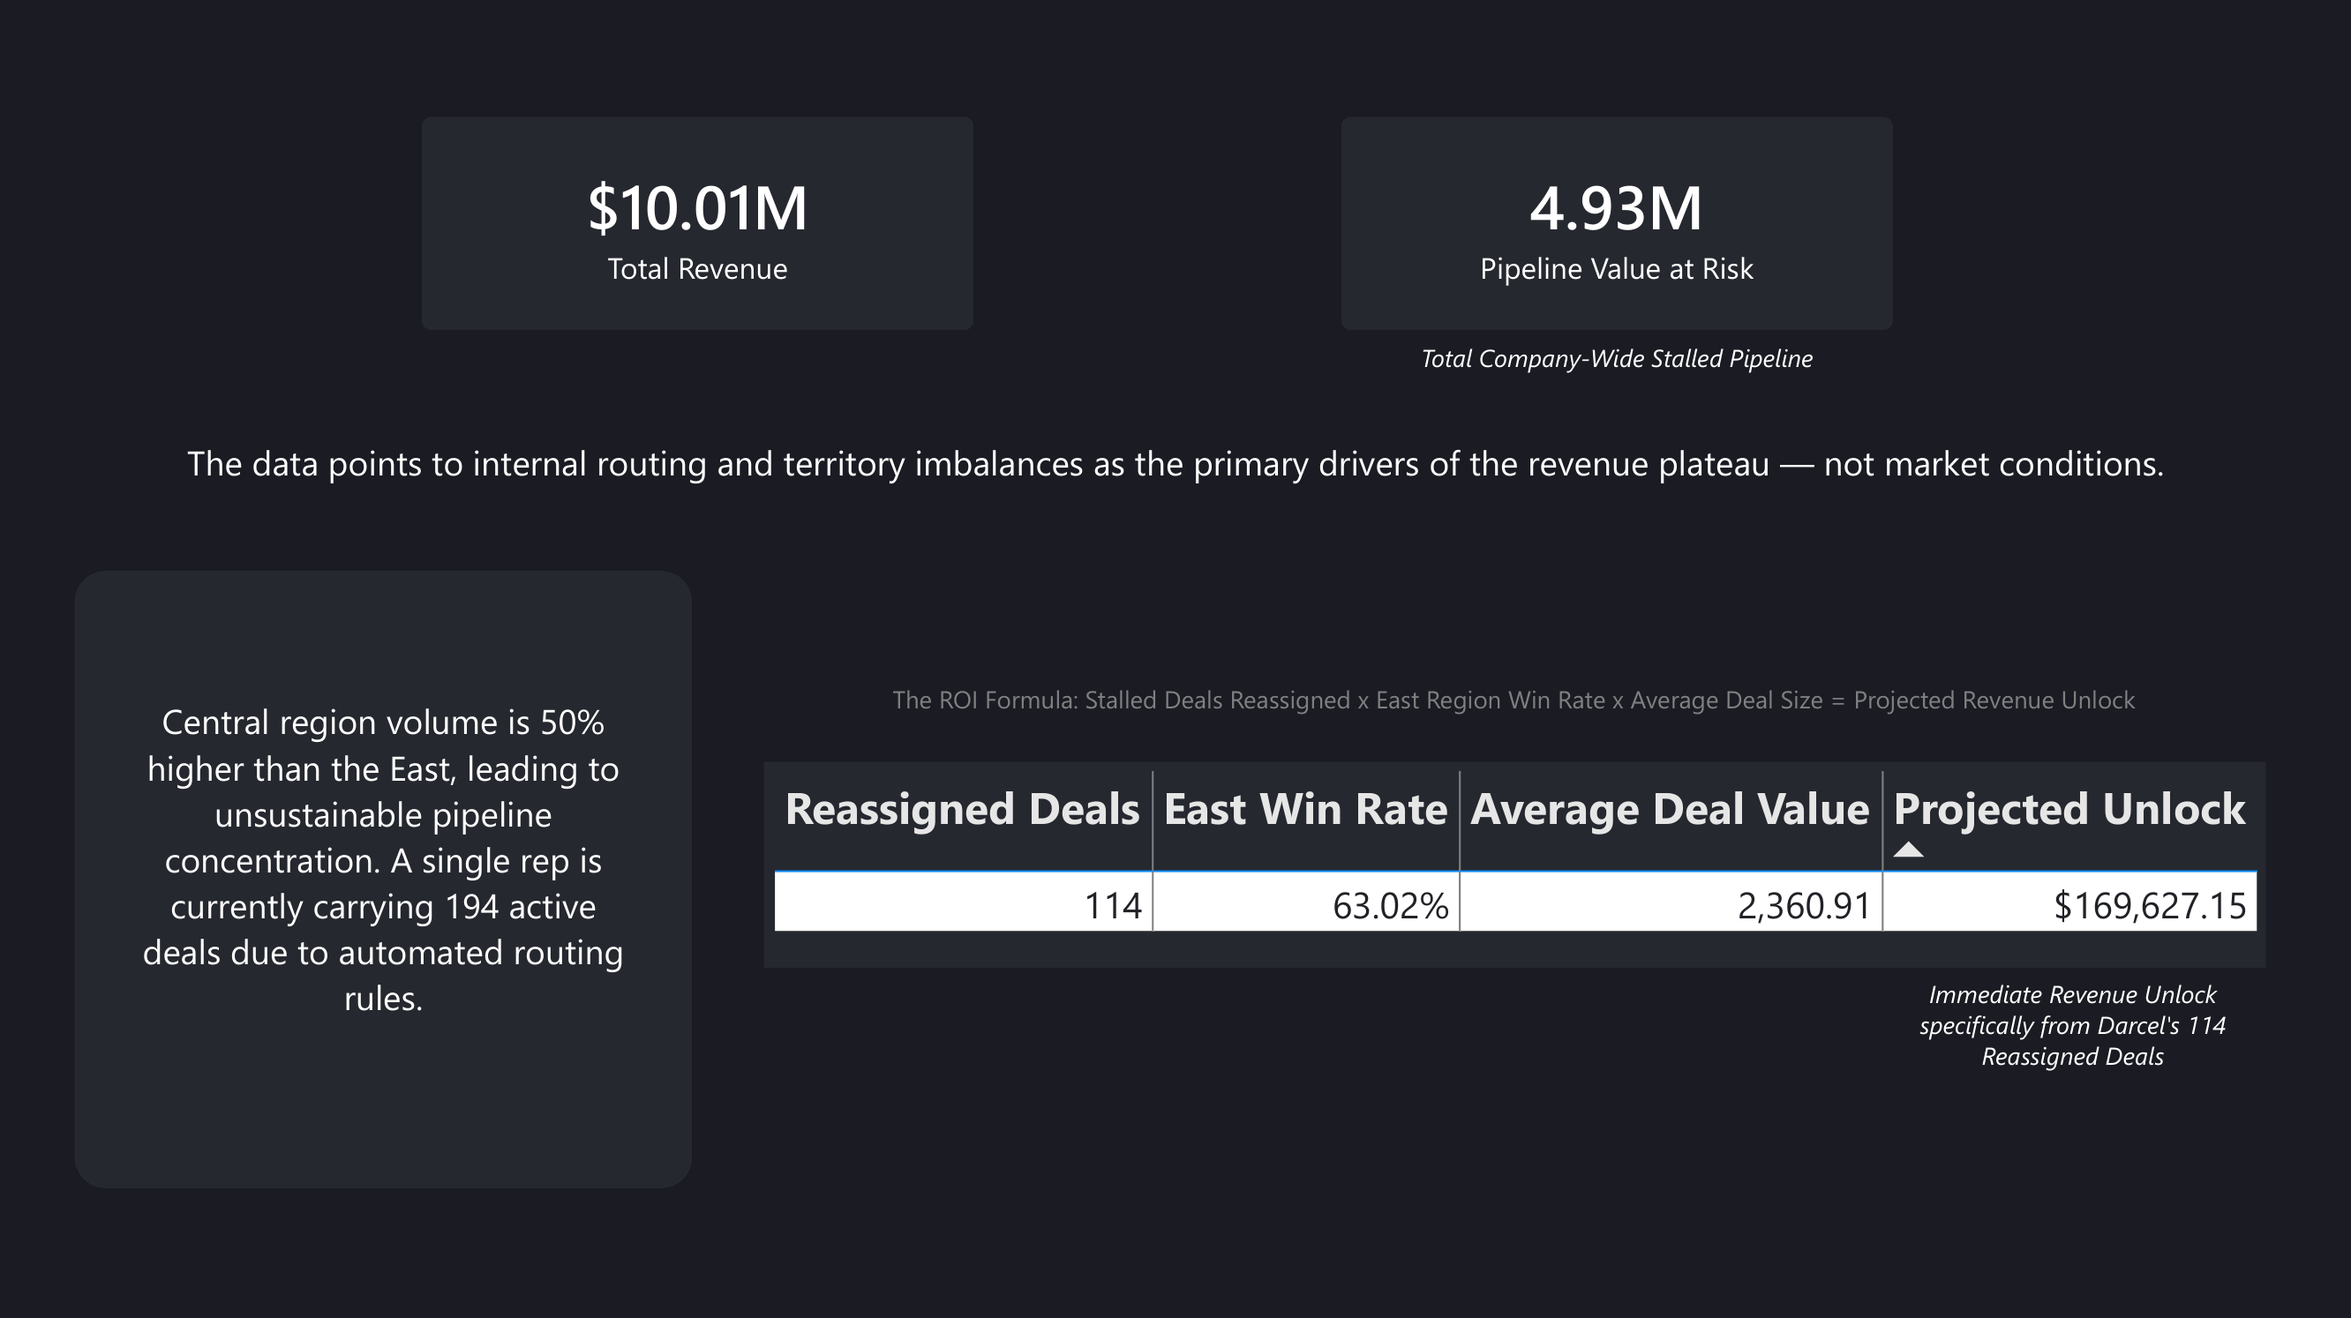
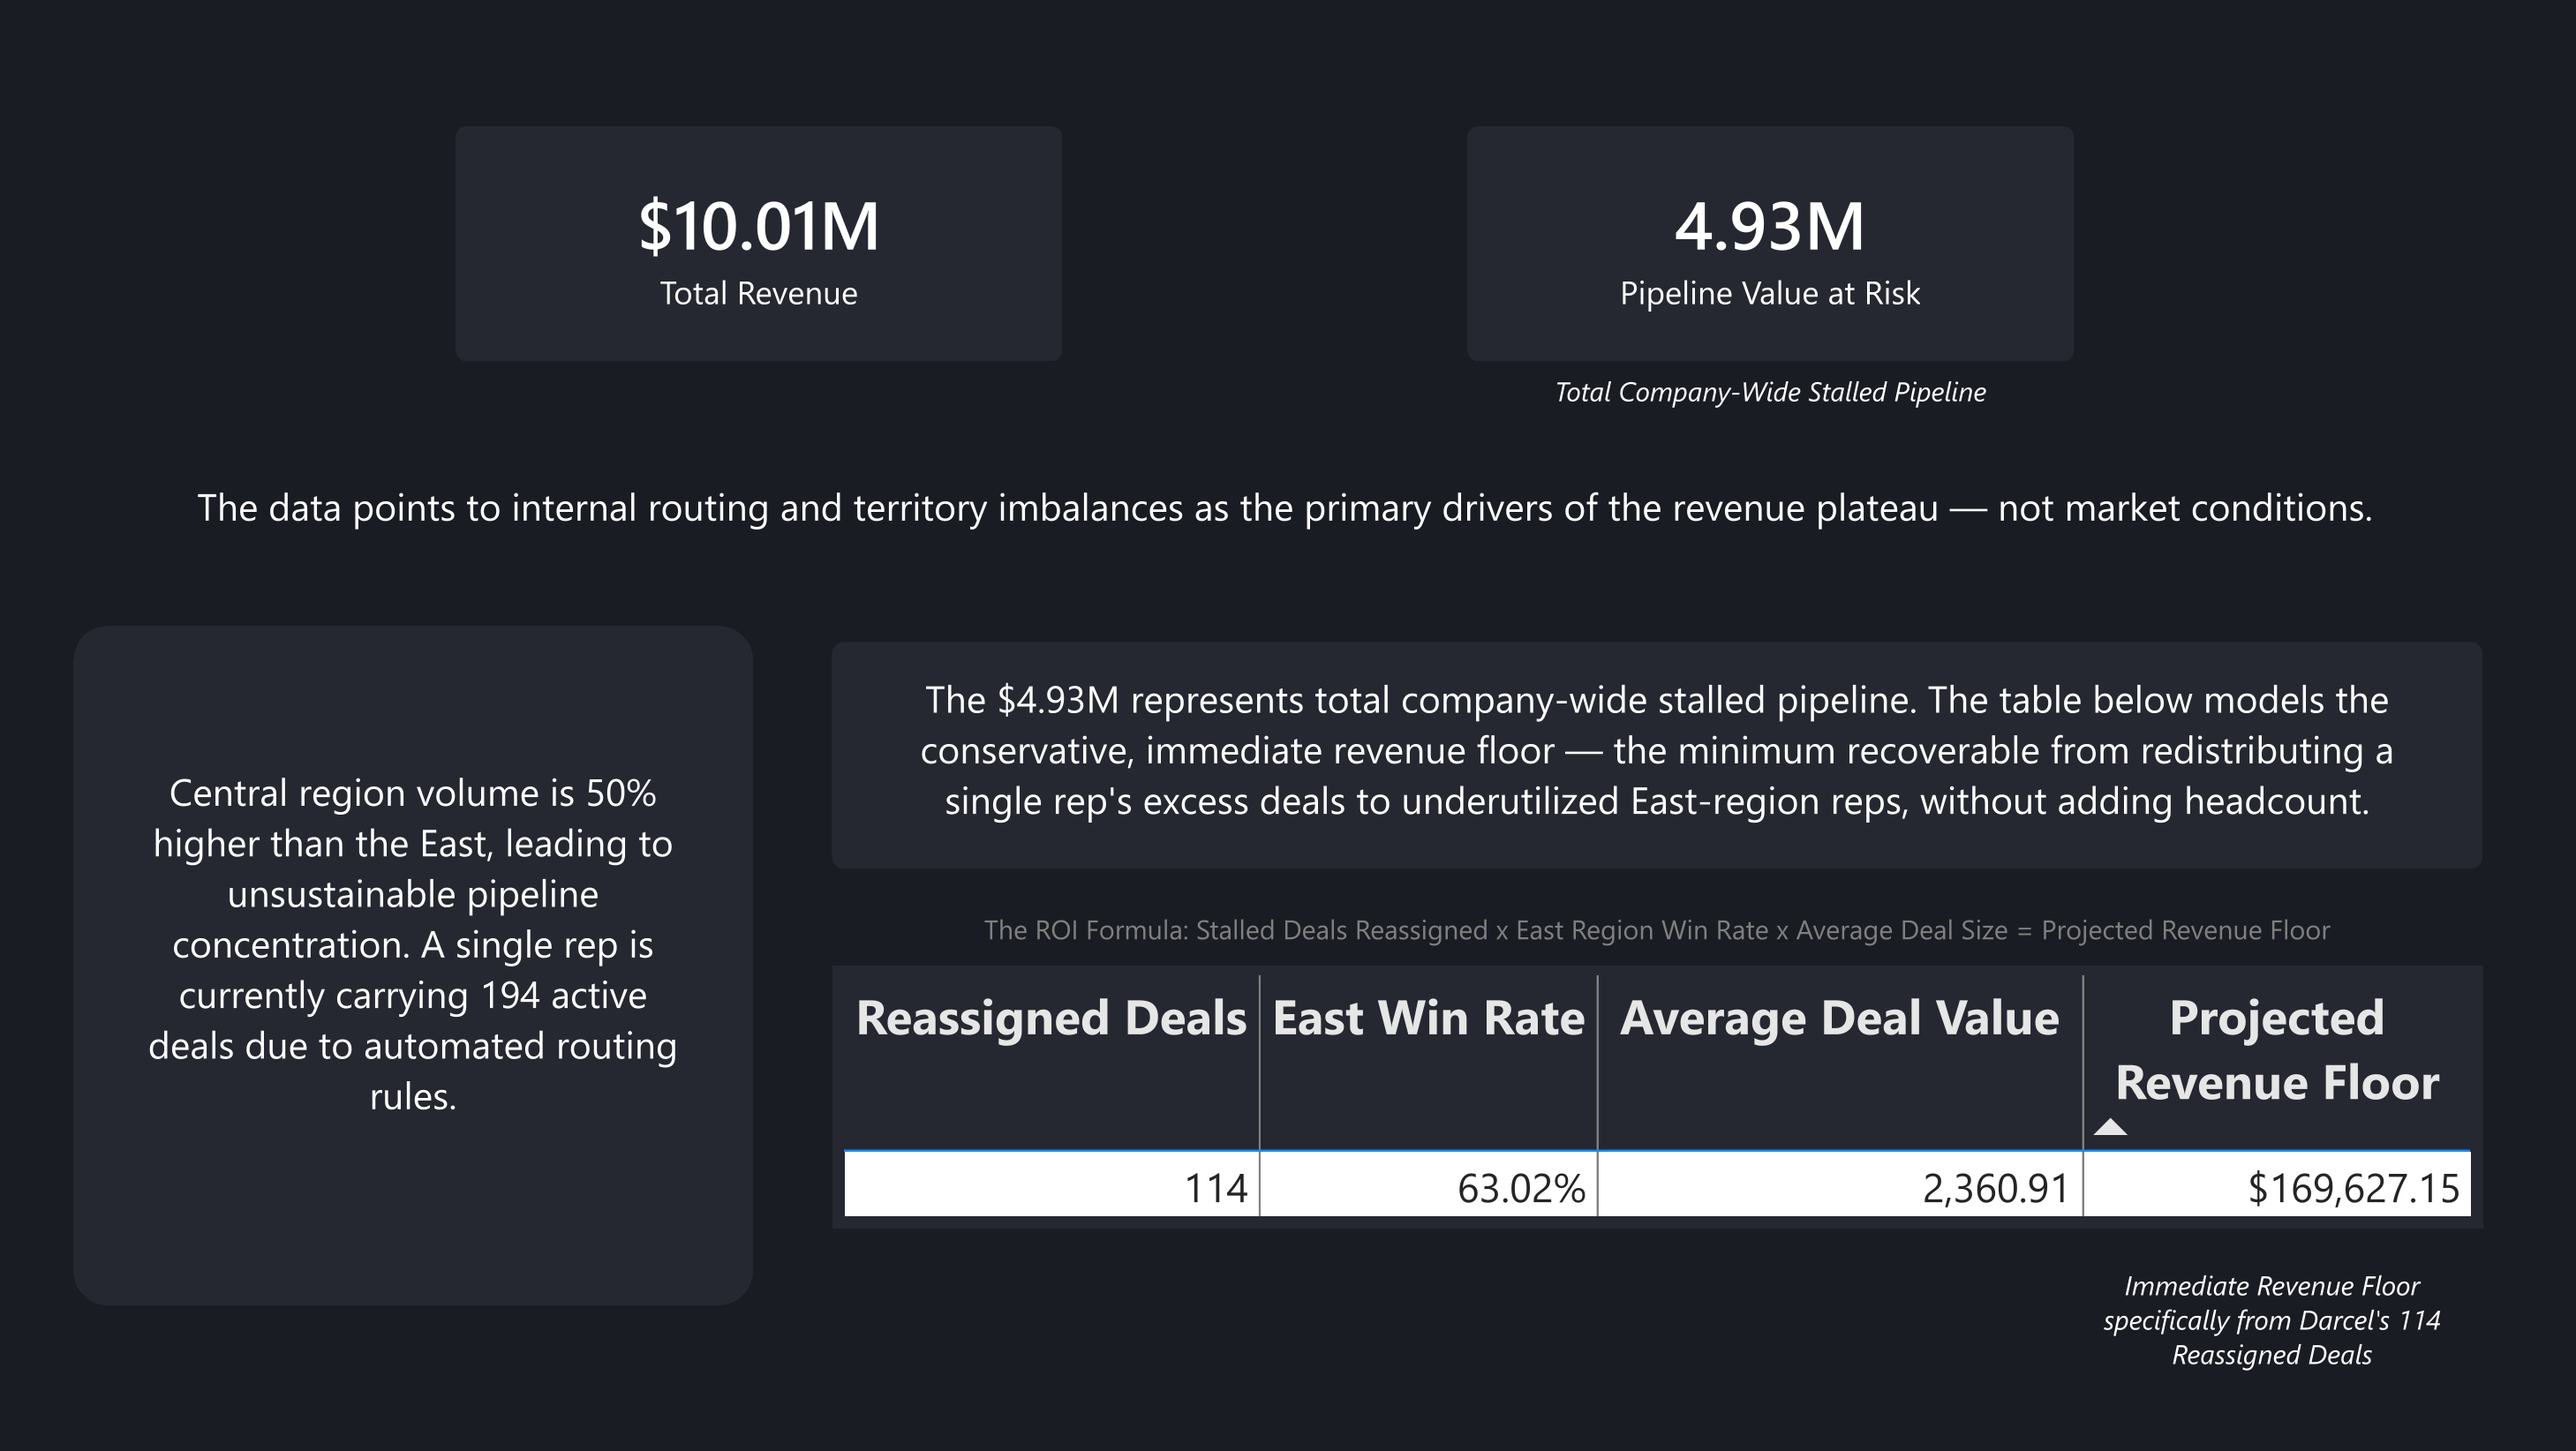
Edited projects and About Me page.

diff --git a/src/data/projects.js b/src/data/projects.js
@@ -23,8 +23,8 @@ export const allProjectsData = [
     id: "aegis",
     title: "Aegis GBS: Workforce Optimizer",
     category: "Python, SQL, Power BI",
-    description: "Analyzed 550k+ HR records to deliver a cost-neutral hiring strategy and eliminate structural waste.",
-    keyFinding: "$4.4M in avoidable overtime costs identified",
+    description: "Arbitrated an executive dispute between seasonal vs. structural overtime waste and delivered a cost-neutral fix requiring zero new budget.",
+    keyFinding: "$4.4M in OT premiums identified as sufficient to fully fund 15 new hires",
     images: [aegisImg],
     badge: null,
     link: "https://github.com/beaandrea/aegis-workforce-capacity",
@@ -32,8 +32,8 @@ export const allProjectsData = [
     scenario: "Aegis GBS was bleeding $2.53 billion in annual overtime. The executive team was deadlocked: Was this caused by seasonal spikes, or chronic structural understaffing? And what would right-sizing actually cost? I analyzed a 550,000-row legacy HRIS extract to answer these questions and settle the debate.",
     bullets: [
       "Identified $4.4M in avoidable overtime costs isolated to a specific cohort (Stationary Engineers) working mathematically impossible 1,180+ overtime hours.",
-      "Cleaned and normalized 550,000+ fragmented legacy union records using Pandas regex dictionaries and SQL to calculate true FTE ROI.",
-      "Delivered a cost-neutral restructuring plan via Power BI, proving that wasted premiums could fully fund 15 additional staff members at zero budget cost."
+      "Engineered a Python + SQL cleaning pipeline on 550,000+ fragmented legacy records resolving entity fragmentation across 300,000+ rows to produce the reliable FTE cost model that underpinned the final recommendation.",
+      "Delivered a Power BI executive dashboard with a cost-neutral restructuring plan: reallocating $4.4M from the overtime budget to base salaries funds 15 Stationary Engineer hires at zero net-new cost to Finance."
     ]
   },
   {
@@ -48,9 +48,9 @@ export const allProjectsData = [
     tags: ['All', 'Sales Operations', 'Power BI', 'Python & SQL', 'Data Analytics'],
     scenario: "I analyzed Meridian IS's B2B sales pipeline to identify where territory imbalances and pipeline concentration were stalling revenue, and developed a financial model to determine which executive hypothesis the data actually supported.",
     bullets: [
-      "Identified a massive territory imbalance where the Central region carried 50% more volume than the East but generated lower revenue per rep.",
-      "Exposed a localized routing bottleneck where a single manager assigned 747 deals to one representative, creating an unsustainable 194-deal active pipeline.",
-      "Delivered territory efficiency, rep utilization, and ROI projections to the VP of Sales and Finance Director through a three-page executive Power BI dashboard, enabling the leadership team to act without requiring Finance to approve new headcount."
+      "Identified that Central's 50% volume surplus over East was eroding revenue efficiency rather than amplifying it — ruling out market conditions as the root cause and pointing to structural pipeline overload.",
+      "Surfaced a CRM routing failure confirmed across two managers that had concentrated 194 active deals onto a single rep, 2.5× the team average, masking $4.93M in stalled pipeline from Finance's utilization review.",
+      "Translated the routing analysis into a quantified ROI model projecting a conservative $169K immediate revenue floor from redistributing one rep's excess pipeline, giving Finance the empirical proof needed to unblock action without approving new headcount."
     ]
   },
   {

diff --git a/src/components/About.jsx b/src/components/About.jsx
@@ -26,7 +26,7 @@ export default function About() {
 
                         {/* FIXED: Graduation Status */}
                         <p className="text-gray-200 leading-relaxed mb-10 text-lg">
-                            I'm a Computer Science senior graduating June 2026, specializing in Data Science at the University of Santo Tomas. My focus is operational business intelligence. I spent my internship at KPMG Philippines analyzing workforce data for a Big 4 consulting team, building dashboards that reached Partner level and got flagged for cross-departmental rollout. I'm looking for data analyst roles where clean data and honest analysis actually change how decisions get made.
+                            I'm a Computer Science graduate, specializing in Data Science from the University of Santo Tomas. My focus is operational business intelligence. I spent my internship at KPMG Philippines analyzing workforce data for a Big 4 consulting team, building dashboards that reached Partner level and got flagged for cross-departmental rollout. I'm looking for data analyst roles where clean data and honest analysis actually change how decisions get made.
                         </p>
 
                         <div className="flex flex-col gap-5">
